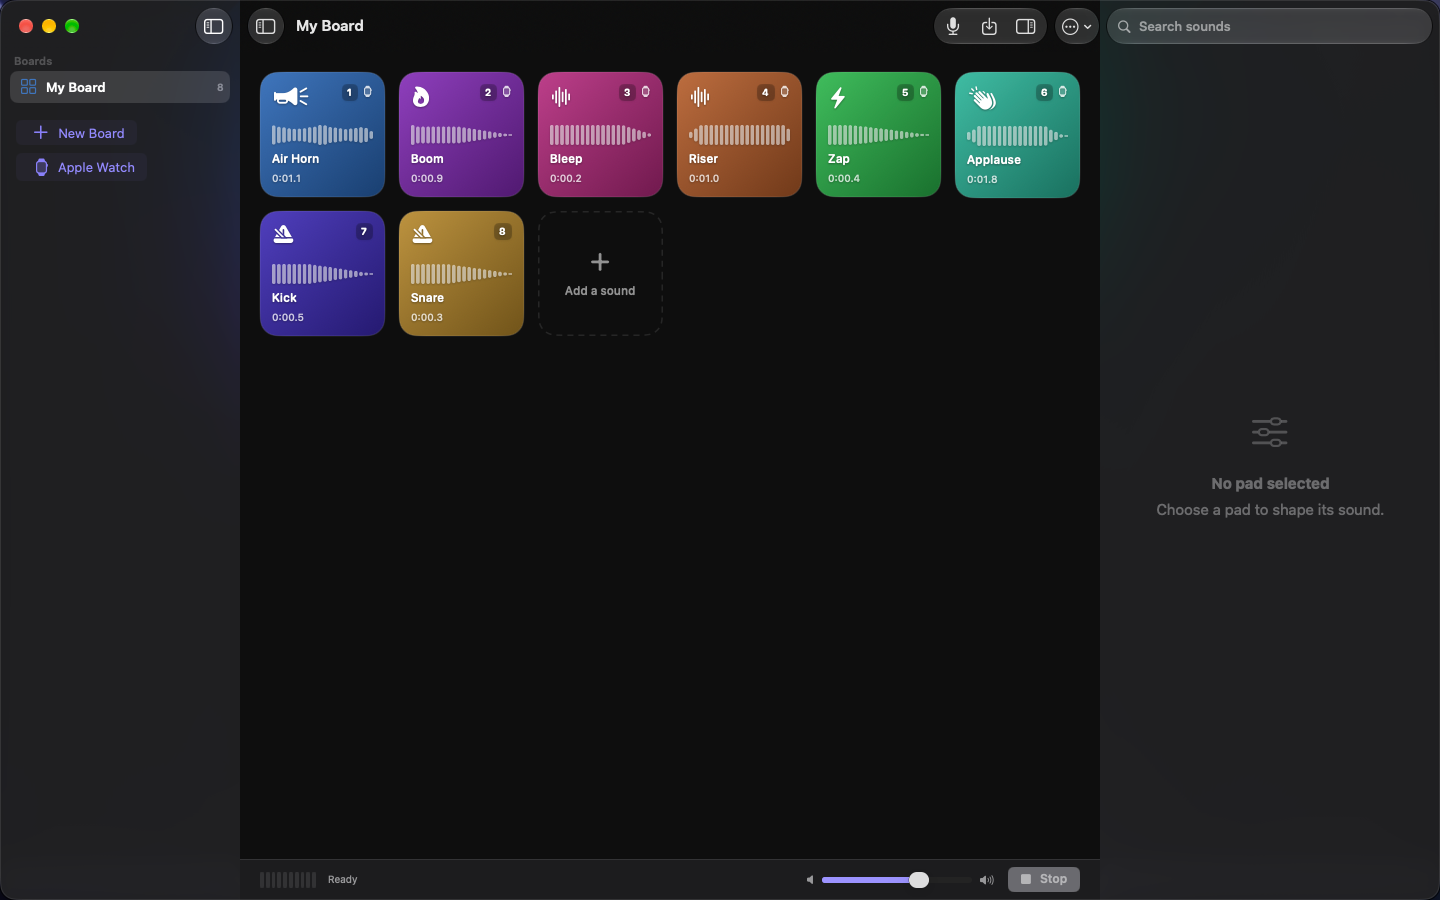
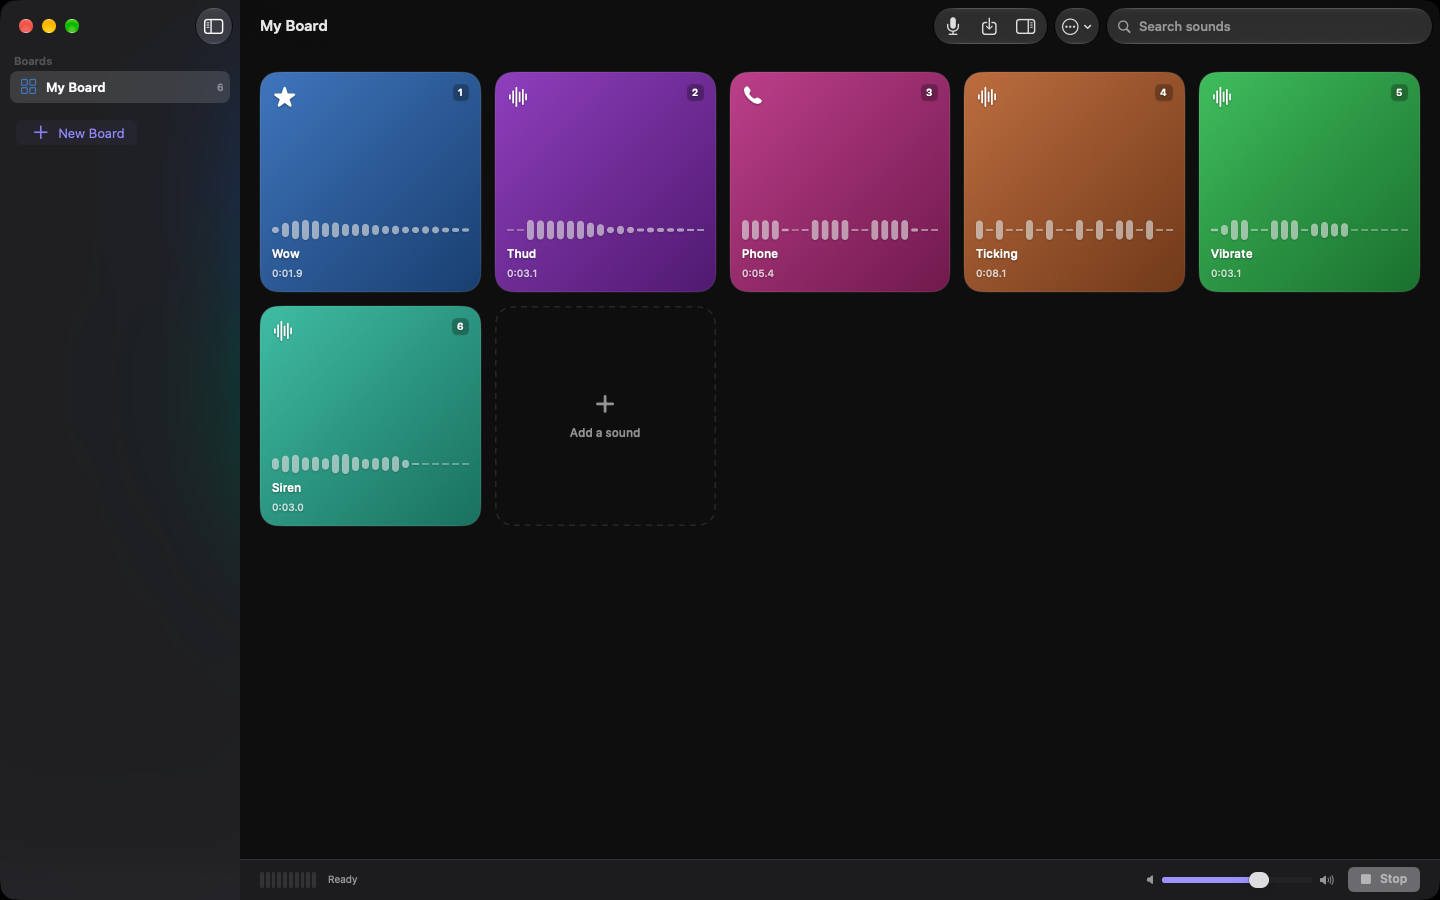
Link to the App Store
Blurt Board is live on the App Store, so the home page now leads with a
download button and every page's footer links to it. The note under the
button says the Mac version is still in review rather than implying it
is there.

The home page screenshot was the old one, with test sounds and a
duplicate sidebar button; replaced with the current app.

diff --git a/index.html b/index.html
@@ -14,6 +14,10 @@
   <p class="eyebrow">Blurt Board</p>
   <h1>Your sounds, one tap away</h1>
   <p class="lede">A soundboard for iPhone, iPad, Mac and Apple Watch. Bring in audio you already have or record something new, shape it with effects, and fire it with one tap.</p>
+  <div class="get">
+    <a class="download" href="https://apps.apple.com/app/id6814211591">Download on the App Store</a>
+    <p class="note">Free, for iPhone, iPad and Apple Watch. The Mac version is with Apple for review.</p>
+  </div>
 </header>
 
 <img class="shot" src="mac-board.png" alt="Blurt on a Mac, showing a board of coloured pads with waveforms and an inspector on the right.">
@@ -53,7 +57,7 @@
 <p>The <a href="support.html">support page</a> covers the common questions, or write to <a href="mailto:blurtboard.app@gmail.com">blurtboard.app@gmail.com</a>.</p>
 
 <footer>
-  <p><a href="support.html">Support</a> · <a href="privacy.html">Privacy</a></p>
+  <p><a href="https://apps.apple.com/app/id6814211591">App Store</a> · <a href="support.html">Support</a> · <a href="privacy.html">Privacy</a></p>
 </footer>
 
 </div>

diff --git a/support.html b/support.html
@@ -17,6 +17,7 @@
 </header>
 
 <div class="card">
+  <p><strong>Get Blurt:</strong> <a href="https://apps.apple.com/app/id6814211591">on the App Store</a>, free.</p>
   <p><strong>Email:</strong> <a href="mailto:blurtboard.app@gmail.com">blurtboard.app@gmail.com</a></p>
   <p>Please say which device and which version of Blurt you are on. The version is at the bottom of Settings.</p>
 </div>
@@ -115,7 +116,7 @@
 <p>Email <a href="mailto:blurtboard.app@gmail.com">blurtboard.app@gmail.com</a> with your device, your version of Blurt, and what you did just before it went wrong. Bugs get fixed faster than feature requests, but both are read.</p>
 
 <footer>
-  <p><a href="./">Blurt Board</a> · <a href="privacy.html">Privacy</a></p>
+  <p><a href="./">Blurt Board</a> · <a href="https://apps.apple.com/app/id6814211591">App Store</a> · <a href="privacy.html">Privacy</a></p>
 </footer>
 
 </div>

diff --git a/style.css b/style.css
@@ -99,3 +99,27 @@ footer a { color: var(--muted); }
   display: block;
   margin: 32px 0;
 }
+
+/* App Store button. The one thing on the page anyone came here to press. */
+.get {
+  display: flex;
+  flex-wrap: wrap;
+  align-items: center;
+  gap: 16px;
+  margin: 28px 0 0;
+}
+
+.download {
+  display: inline-block;
+  background: var(--accent);
+  color: #0b0b0d;
+  font-weight: 600;
+  text-decoration: none;
+  padding: 12px 24px;
+  border-radius: 999px;
+  white-space: nowrap;
+}
+
+.download:hover { filter: brightness(1.08); }
+
+.get .note { color: var(--muted); font-size: 15px; margin: 0; }

diff --git a/privacy.html b/privacy.html
@@ -59,7 +59,7 @@
 <p>Questions about privacy, or anything else, can go to <a href="mailto:blurtboard.app@gmail.com">blurtboard.app@gmail.com</a>.</p>
 
 <footer>
-  <p><a href="./">Blurt Board</a> · <a href="./support.html">Support</a></p>
+  <p><a href="./">Blurt Board</a> · <a href="https://apps.apple.com/app/id6814211591">App Store</a> · <a href="./support.html">Support</a></p>
 </footer>
 
 </div>
